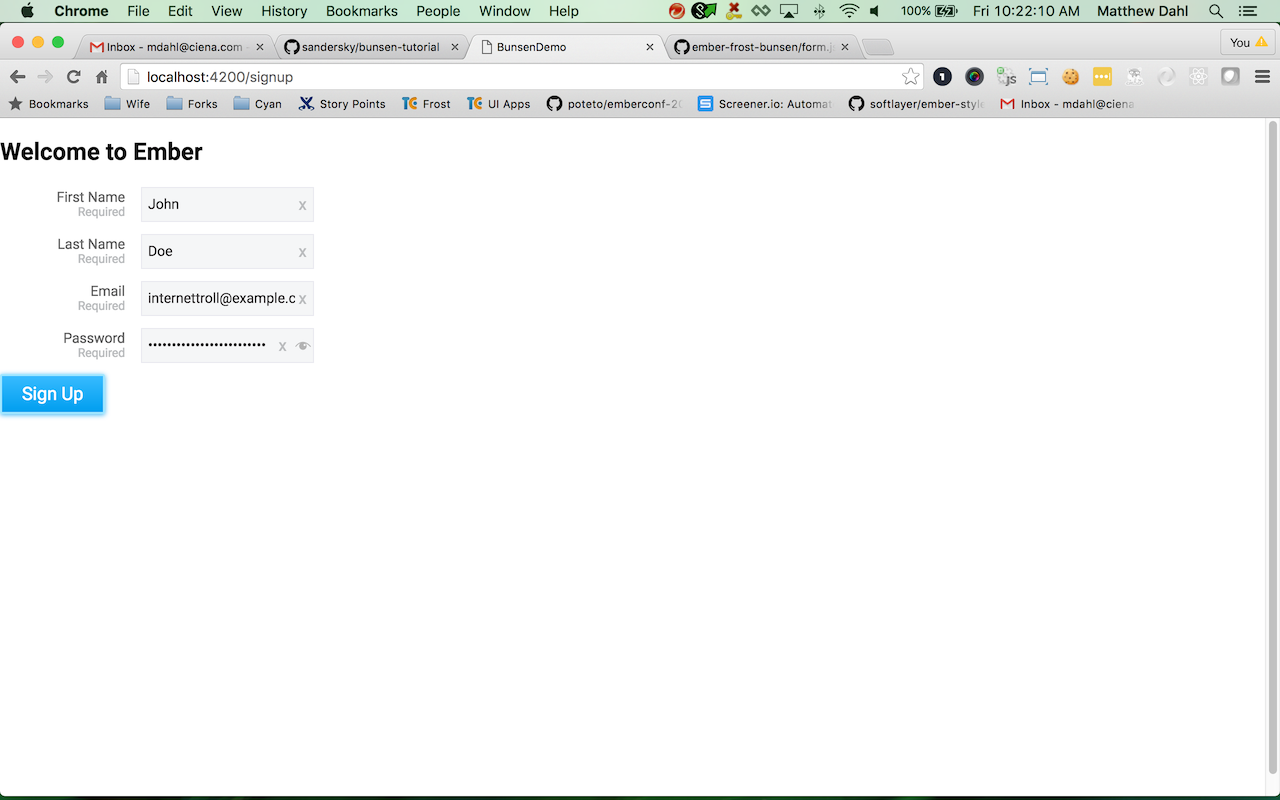
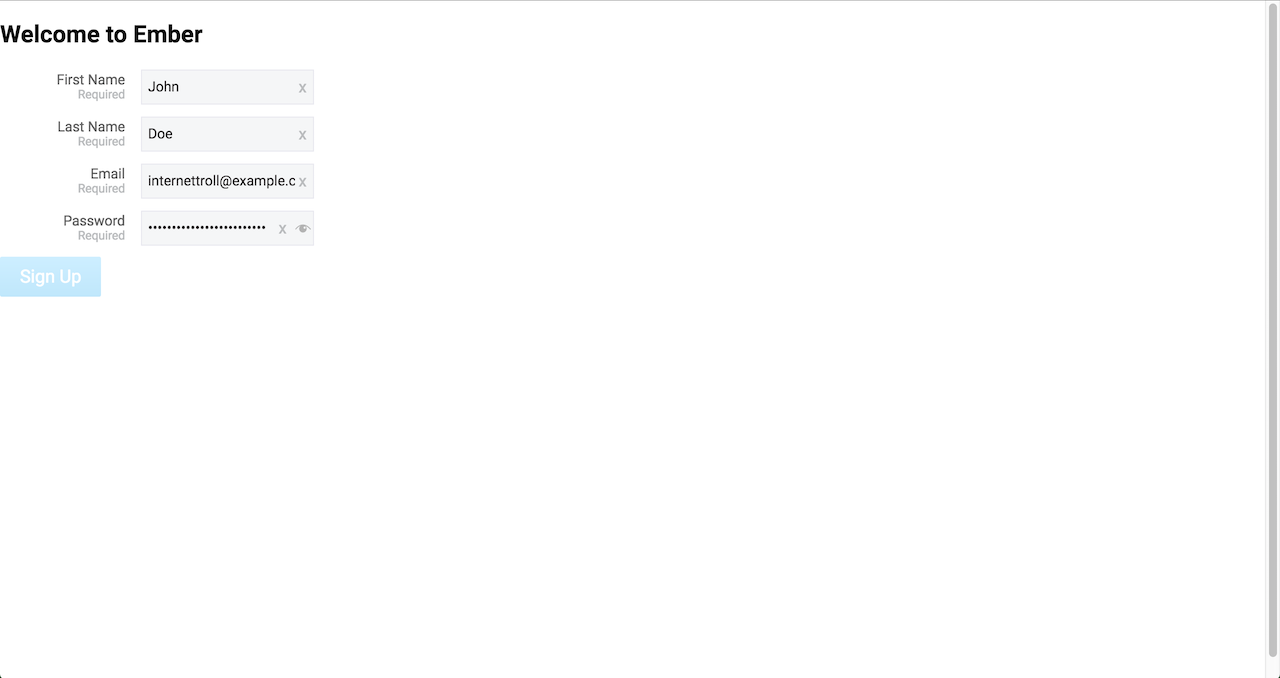
Improve disabled documentation

Changed region(s): [[0.0, 0.0, 1.0, 0.5265], [0.0, 0.9912, 1.0, 1.0], [0.2188, 0.3097, 0.25, 0.3407]]

diff --git a/README.md b/README.md
@@ -325,7 +325,7 @@ Now you should see the following alert when you fill out the form and press the 
 
 #### Disable During Submission
 
-In the event you have the form wired up to a real backend you may want to disable the form while you are waiting for the API request to complete. For this demo lets make the submission wait a couple seconds before presenting the alert and during that time disable the entire form in an effort to simulate a slow API request.
+In the event you have the form wired up to a real backend you may want to disable the form while you are waiting for the API request to complete. For this demo lets make the submission wait a couple seconds before presenting the alert and during that time disable the entire form in an effort to simulate a slow API request. We will leverage the `disabled` property of the `frost-bunsen-form` component to disable the form.
 
 *app/templates/signup.hbs*
 
@@ -338,7 +338,7 @@ In the event you have the form wired up to a real backend you may want to disabl
   onValidation=(action "formValidation")
 }}
 {{frost-button
-  disabled=isFormInvalid
+  disabled=(or isFormInvalid formDisabled)
   onClick=(action "submitForm")
   priority="primary"
   size="medium"
